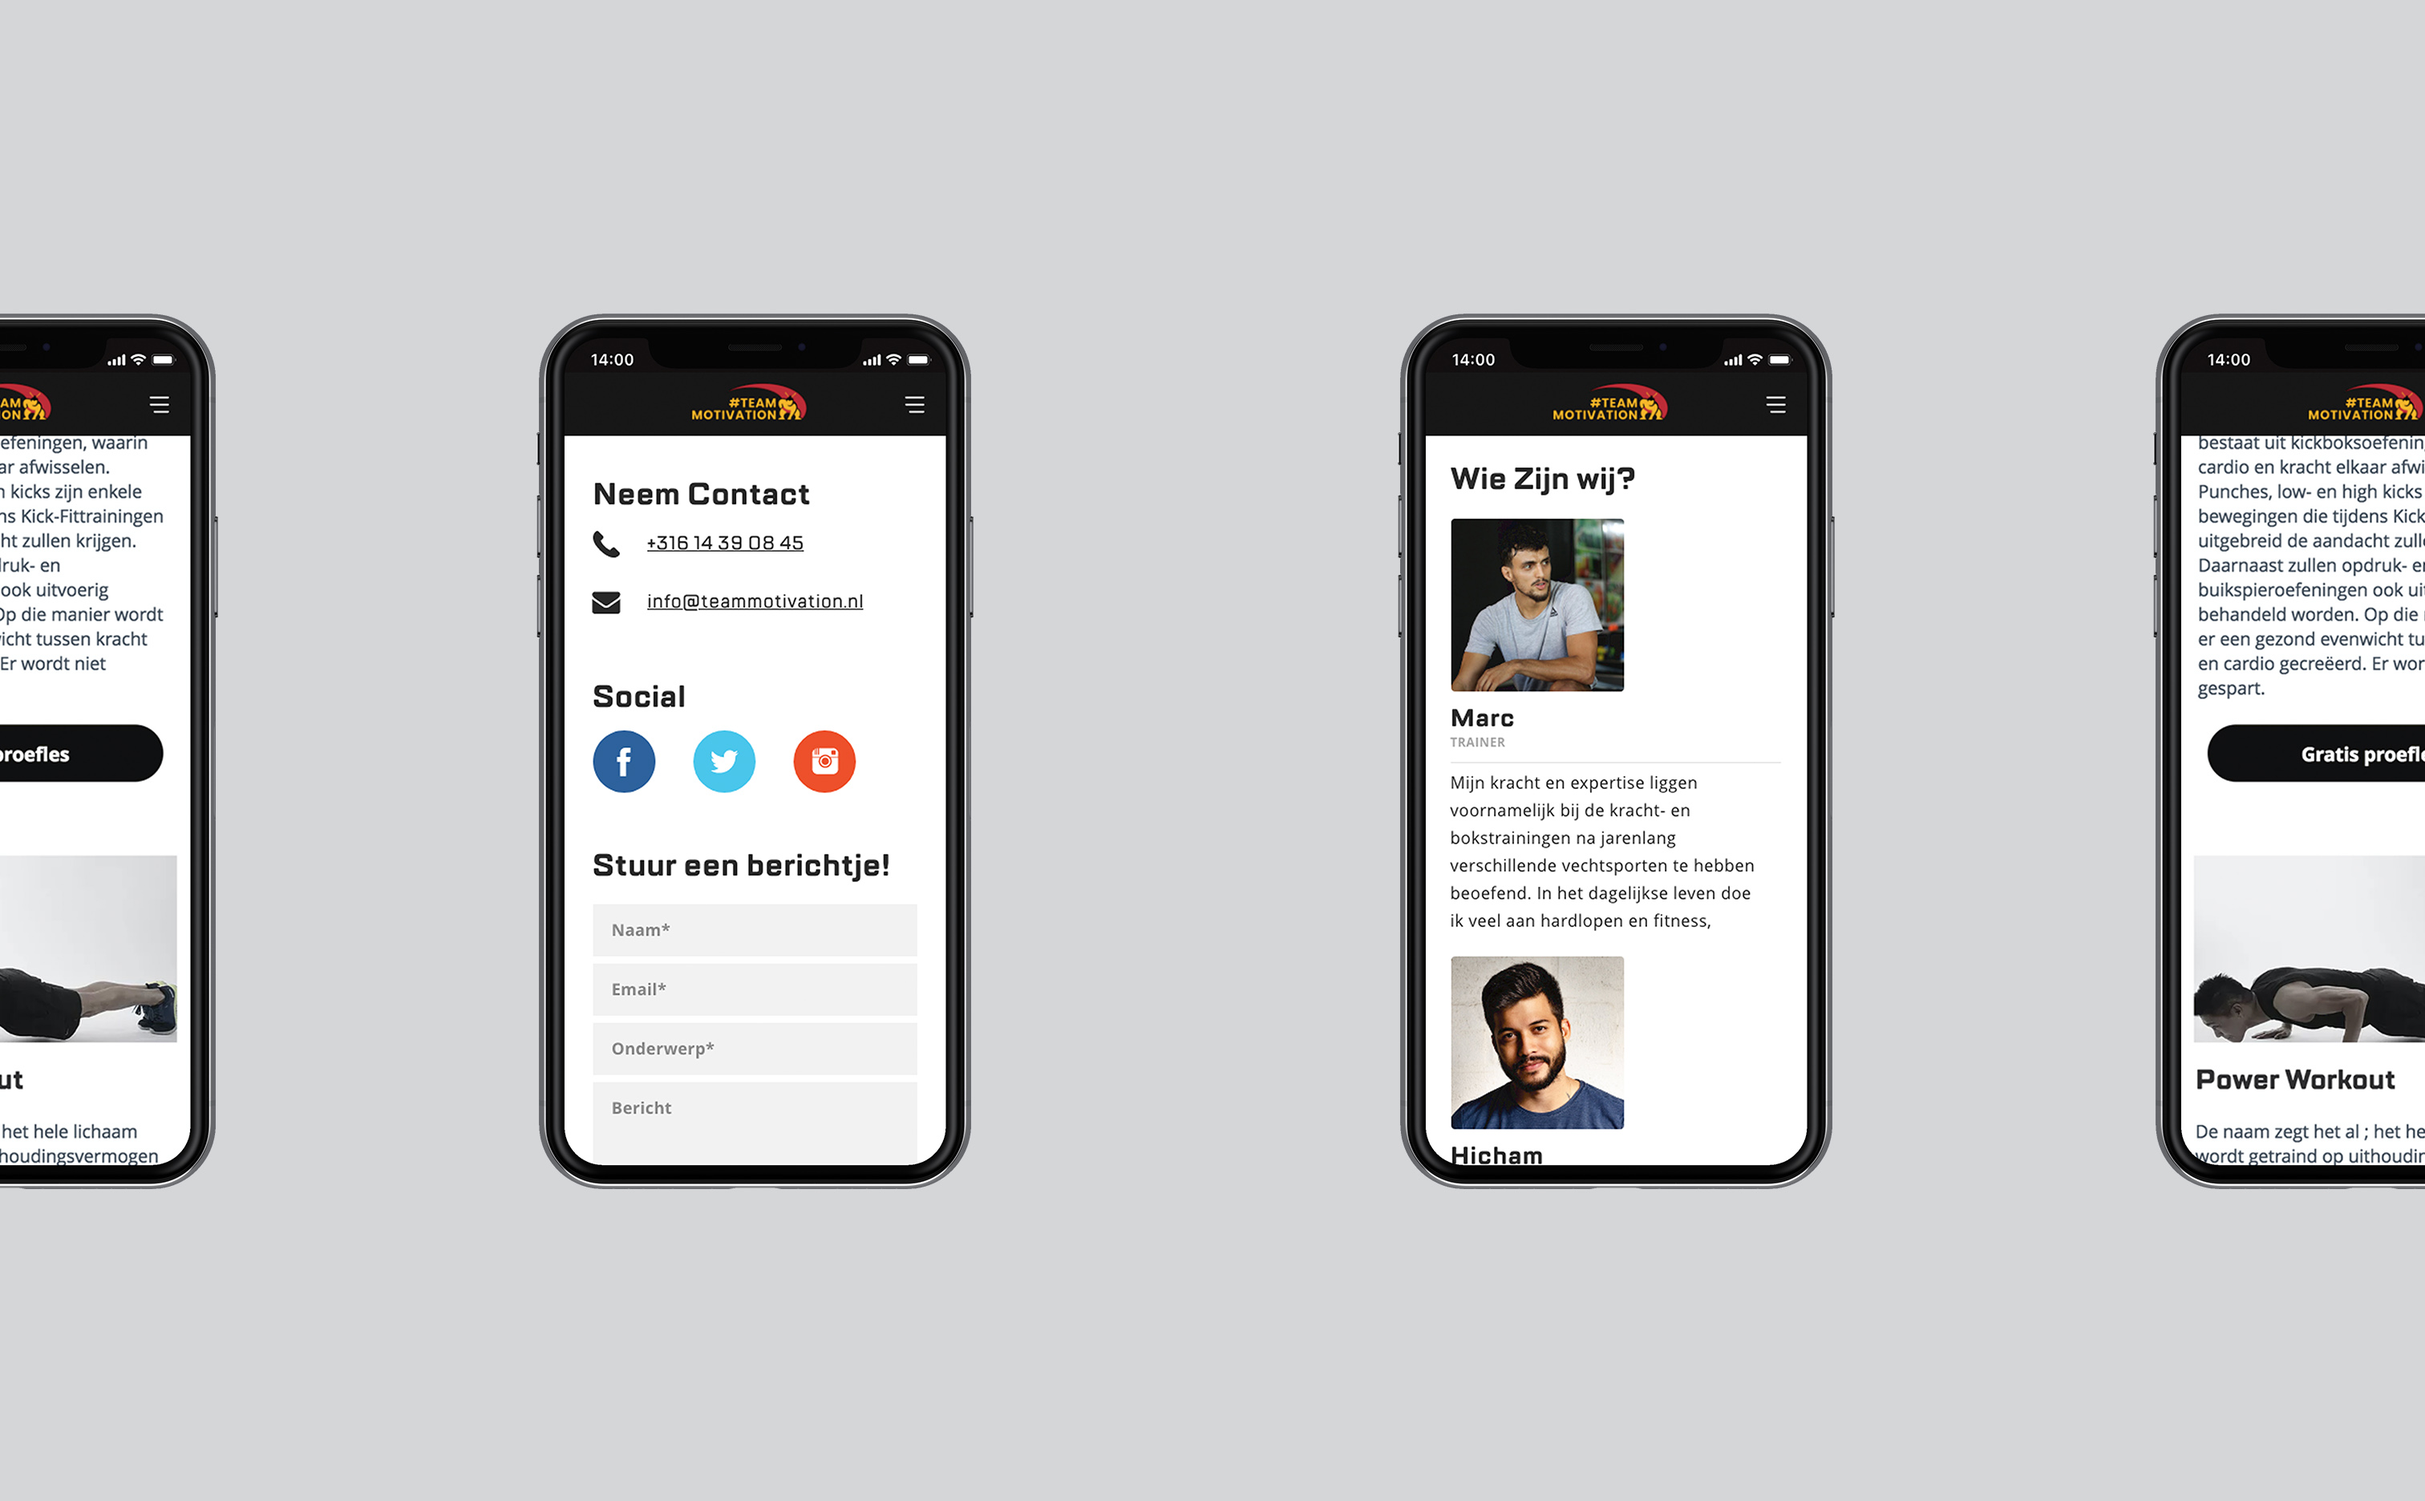
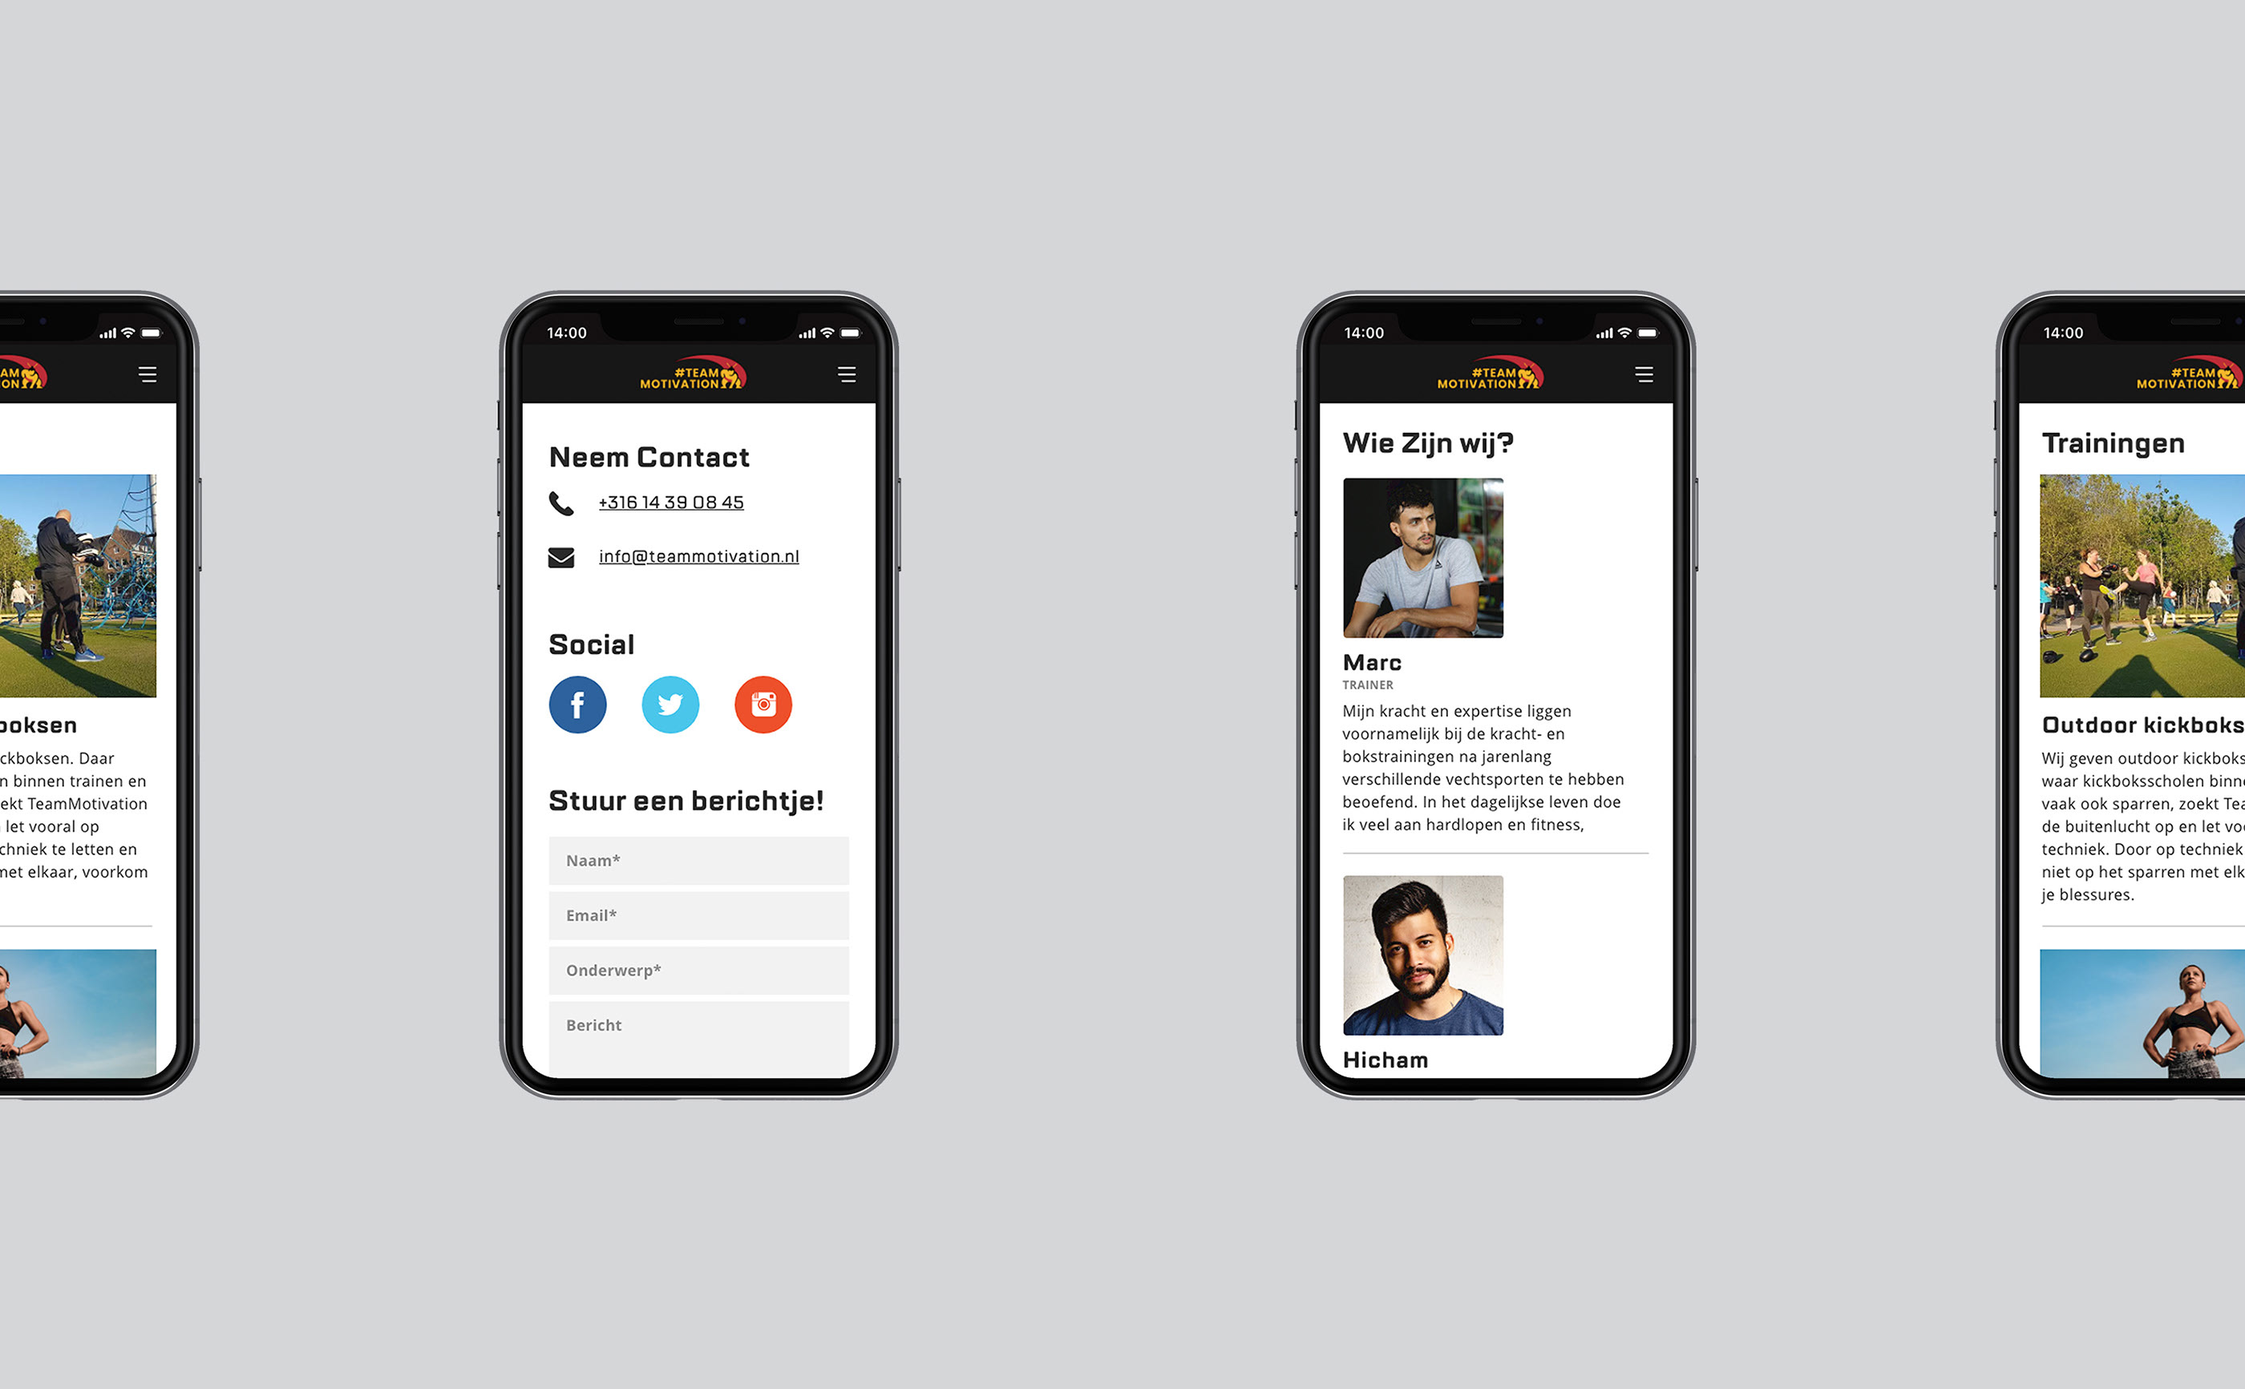
team mot update

Changed region(s): [[0.9011, 0.2804, 1.0, 0.779], [0.0, 0.2804, 0.0932, 0.779], [0.5904, 0.3428, 0.7146, 0.779]]

diff --git a/motivation.html b/motivation.html
@@ -77,15 +77,14 @@
                     <div class="col-lg-4 col-md-4 col-sm-4 col-xs-12">
                         <div class="service">
                             <span>Service</span>
-                            <p>Web Design and brand upgrade</p>
+                            <p>UX and Branding</p>
                         </div>
                     </div>
                     <!-- Start Client -->
                     <div class="col-lg-4 col-md-4 col-sm-4 col-xs-12">
                         <div class="client">
                             <span>client</span>
-                            <p>#TeamMotivation</p>
-                            <a href="https://teammotivation.nl">teammotivation.nl</a>
+                            <p>Team Motivation</p>
                         </div>
                     </div>
                     <!-- Start Date -->
@@ -102,10 +101,10 @@
 
             <!-- Start Post Content Text -->
             <div class="post-content-text">
-                <h2>Designed using Wix (CMS)</h2>
+                <h2>Increasing User Satisfaction & Clickthrough Rate</h2>
                 <!-- Text 1 -->
                 <p>
-                <strong>#TeamMotivation</strong> is an outdoor bootcamp / fitness company that focuses on personal, straightforward, and limit breaking trainings. I did a rebrand of the original website that was originally created 6 years ago. The Client wanted to go a completely different direction with the website's design, while maintaining the same logo. 
+                #TeamMotivation is an outdoor bootcamp / fitness company that focuses on personal, straightforward, and limit breaking trainings. I did a rebrand of the original website that was originally created 6 years ago. The Client wanted to go a completely different direction with the website's design, while maintaining the same logo. 
                 While the old website was confusing, messy, and full of information that was no longer useful, the new one was made with for a 'straight to the point, with no extras' outlook.  I made the website with a combination of photographs from the client, and some stock images when required. The black/white theme further communicates the brand values. 
                 The website was developed using CMS software WIX, as per the clients request. I greatly enjoyed discovering this software although the limits in responsive design and personalization may make me choose other sources instead. 
                 </p>

diff --git a/index.html b/index.html
@@ -177,6 +177,21 @@
                 </div>
             </div>
             <!-- End Items 2 -->
+            <!-- 2 - Team Motivation -->
+            <div class="item-grid Web col-lg-12 col-md-12 col-sm-12 col-xs-12">
+                <div class="item">
+                    <div class="item-img-3b grid_responsive">
+                        <a href = "motivation.html">
+                            <div class="item-overlay"></div>
+                        </a>
+                    </div>
+                    <div class="item-text">
+                        <a href = "motivation.html"><h3>Team Motivation</h3></a>
+                        <p>Fitness Website</p>
+                    </div>
+                </div>
+            </div>
+            <!-- End -->   
             <!-- 2 - Sales Companion -->
             <div class="item-grid Web col-lg-12 col-md-12 col-sm-12 col-xs-12">
                 <div class="item">
@@ -192,6 +207,7 @@
                 </div>
             </div>
             <!-- End Items 2 -->   
+            
              <!-- 2 - posters -->
             <div class="item-grid Web col-lg-12 col-md-12 col-sm-12 col-xs-12">
                 <div class="item">
